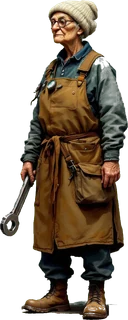
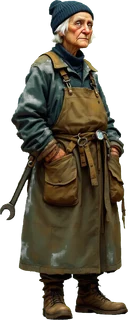
Repaint Mags in her navy beanie and no glasses, as the visual bible has her

diff --git a/scripts/generate-character-sprites.ts b/scripts/generate-character-sprites.ts
@@ -33,9 +33,9 @@ export const SPRITES: Record<string, string> = {
   "player-10": `A Black man in his twenties with locs tied back, goggles around his neck, a patched rain poncho, a small backpack, ${FIGURE}`,
   "player-11": `A freckled boy about fifteen in an oversized knitted beanie, a canvas satchel strap across his chest, a baggy jacket, ${FIGURE}`,
   "player-12": `A South Asian woman in her sixties with short white hair, a hooded raincoat with the hood down, a small backpack, ${FIGURE}`,
-  mags: `A small wiry stooped woman of 77, about 155 cm, cropped white hair under a navy knitted beanie, deeply lined face, ` +
-    `a long grey oilskin coat to her knees over an oil-stained navy work shirt, a canvas apron full of pockets, a jeweller's loupe on a bootlace round her neck, ` +
-    `men's steel-capped boots, a large spanner in her right hand, ${FIGURE}`,
+  mags: `A small wiry stooped old woman of 77, about 155 cm, cropped white hair under a dark navy blue knitted beanie, deeply lined face, no glasses, ` +
+    `wearing a long slate-grey waxed oilskin coat that reaches her knees, worn open over an oil-stained navy work shirt, a canvas apron full of pockets under the coat, ` +
+    `a jeweller's loupe on a bootlace round her neck, men's steel-capped boots, a large spanner hanging in her right hand, ${FIGURE}`,
 };
 
 async function main(): Promise<void> {
